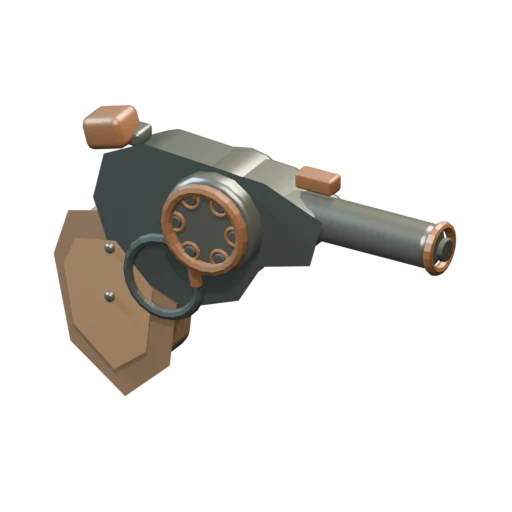
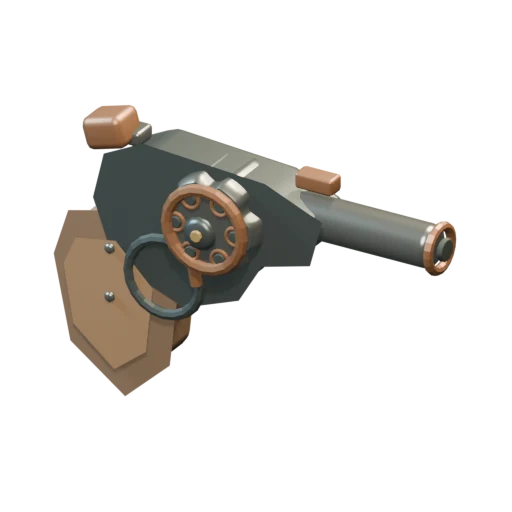
Model a fluted salvage revolver cylinder

Changed region(s): [[0.3438, 0.2812, 0.5312, 0.4375], [0.3438, 0.4062, 0.4375, 0.5]]

diff --git a/tools/icon-render/render_icons.py b/tools/icon-render/render_icons.py
@@ -224,12 +224,39 @@ def build(item):
             cyl("revolver barrel",(.37,0,.12),.064,.62,steel,16,"X")
             torus("revolver muzzle rim",(.69,0,.12),.064,.014,copper,(0,math.pi/2,0))
             cyl("revolver barrel bore",(.707,0,.12),.034,.018,dark,12,"X",.004)
-            cyl("six chamber cylinder",(.03,-.02,.08),.15,.25,steel,16,"Y");torus("cylinder rim",(.03,-.16,.08),.12,.018,copper,(math.pi/2,0,0))
+            # A six-fluted cylinder breaks up the large plain metal drum and
+            # keeps the chamber assembly legible at inventory-icon scale.
+            # The shallow scallops are actual mesh relief rather than a decal.
+            base_x,base_y,base_z=.03,-.02,.08; radius=.15; sides=72
+            rings=[(-.125,.91),(-.108,.985),(-.085,1.0),(.045,1.0),(.068,.985),(.085,.91)]
+            verts=[]
+            for y,edge in rings:
+                for index in range(sides):
+                    angle=math.tau*index/sides
+                    # Place each relief between adjacent chamber bores so the
+                    # front-face ports remain circular and unobstructed.
+                    flute=(.029*max(0,math.cos(angle*6+math.pi)))
+                    r=(radius-flute)*edge
+                    verts.append((base_x+math.cos(angle)*r,base_y+y,base_z+math.sin(angle)*r))
+            faces=[]
+            for row in range(len(rings)-1):
+                for index in range(sides):
+                    a=row*sides+index;b=row*sides+(index+1)%sides
+                    faces.append((a,a+sides,b+sides,b))
+            # The lower and upper cap windings face away from the cylinder.
+            faces.extend((tuple(range(sides)),tuple((len(rings)-1)*sides+i for i in range(sides-1,-1,-1))))
+            drum_mesh=bpy.data.meshes.new("six-flute revolver cylinder mesh");drum_mesh.from_pydata(verts,[],faces);drum_mesh.materials.append(steel);drum_mesh.update()
+            drum=bpy.data.objects.new("six-fluted revolver cylinder",drum_mesh);bpy.context.collection.objects.link(drum)
+            for polygon in drum_mesh.polygons:
+                polygon.use_smooth=len(polygon.vertices)==4
+            torus("cylinder rim",(.03,-.16,.08),.12,.018,copper,(math.pi/2,0,0))
             for chamber in range(6):
                 angle=chamber*math.tau/6
                 cx=.03+math.cos(angle)*.094;cz=.08+math.sin(angle)*.094
                 torus("individual cylinder chamber rim",(cx,-.157,cz),.026,.006,copper,(math.pi/2,0,0))
                 cyl("dark cylinder chamber",(cx,-.158,cz),.018,.012,dark,10,"Y",.003)
+            profile_mesh("cylinder extractor star and arbor",(base_x,-.163,base_z),[(-.038,.035),(-.024,.052),(-.010,.034),(.005,.022)],iron,"Y",12)
+            cyl("extractor spindle screw",(.03,-.207,.08),.018,.012,gold,8,"Y",.003)
             torus("curved trigger guard",(-.13,-.105,-.13),.115,.016,iron,(math.pi/2,0,0))
             rod("revolver trigger",(-.035,-.125,-.02),(-.015,-.125,-.12),.018,copper,8)
             cube("revolver hammer spur",(-.34,-.035,.25),(.13,.12,.10),copper,.025).rotation_euler[1]=-.28
